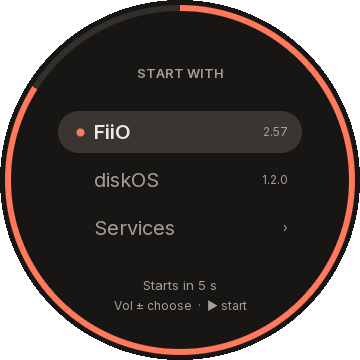
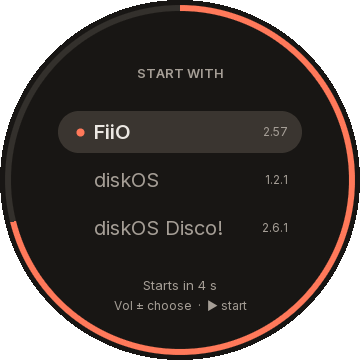
Name release 2.57.13's packages in the catalog
The catalog offers disc-menu, disc-health and disc-network 2.57.13 (the
programs of 2.57.12, build 8eb15a9) beside diskOS 1.2.1 and diskOS Disco!
2.6.1, both seen on the guest only. Changelog entry 2.57.13 says so, and that
the release is a pre-release until both have run on a player; the developer
document keeps that rule. The installation guide says which UIs are offered
unticked and why, and asks to leave the player running for about three
minutes after a start with new packages, until they count as confirmed. The
documents' menu pictures are drawn with both UIs beside FiiO's (the fixture
scenes' key sequences take the extra row); the plan's item names the
pre-release and the "Player didn't respond" splash of diskOS 1.2.1 seen on the
guest.

Claude-Session: https://claude.ai/code/session_01MfNBkZFpsGQADFR8gYQ8nm

diff --git a/scripts/menu_screens.py b/scripts/menu_screens.py
@@ -90,8 +90,8 @@ def main():
     p.add_argument('--output', type=Path, default=ROOT/'docs/assets/menu')
     args = p.parse_args()
     args.output.mkdir(parents=True, exist_ok=True)
-    # One interface beside FiiO's own (diskOS, a project of its own), FiiO's chosen last time.
-    installed = ('stock', [('diskos', 'diskOS', '1.2.0')])
+    # Two interfaces beside FiiO's own (diskOS and its fork Disco!, projects of their own), FiiO's chosen last time.
+    installed = ('stock', [('diskos', 'diskOS', '1.2.1'), ('diskos-disco', 'diskOS Disco!', '2.6.1')])
     scene('choose', args.output, installed, wait=1.5, countdown=5000)
     scene('reading-the-card', args.output, installed, install=dict(state='waiting', done=0, total=0, current=None))
     scene('installing', args.output, installed, install=dict(state='installing', done=1, total=3, current='disc-menu'))
@@ -100,7 +100,8 @@ def main():
     # The menu's other screens (plan, stage 7): the services, the packages, a removal's question.
     offer = dict(services=[dict(name='disc-health', title='disc-health', version='2.57.7', autostart=True, removing=False),
                            dict(name='disc-network', title='disc-network', version='2.57.7', autostart=False, removing=False)],
-                 packages=[dict(role='ui', name='diskos', title='diskOS', version='1.2.0', removing=False),
+                 packages=[dict(role='ui', name='diskos', title='diskOS', version='1.2.1', removing=False),
+                           dict(role='ui', name='diskos-disco', title='diskOS Disco!', version='2.6.1', removing=False),
                            dict(role='service', name='disc-health', title='disc-health', version='2.57.7', removing=False),
                            dict(role='service', name='disc-network', title='disc-network', version='2.57.7', removing=False)],
                  staged=[])
@@ -109,17 +110,18 @@ def main():
     waiting = dict(offer, staged=[dict(folder='service/disc-network', role='service', name='disc-network', title='disc-network',
                                        version='2.57.8', refused=None)])
     scene('waiting', args.output, installed, offer=waiting, wait=1.0, countdown=5000)
-    scene('services', args.output, installed, offer=offer, keys=(VOLUME_DOWN, VOLUME_DOWN, PLAY, VOLUME_DOWN))
-    scene('packages', args.output, installed, offer=waiting, keys=(VOLUME_DOWN, VOLUME_DOWN, PLAY, VOLUME_DOWN))
-    scene('remove', args.output, installed, offer=offer, keys=(VOLUME_DOWN, VOLUME_DOWN, VOLUME_DOWN, PLAY, VOLUME_DOWN, PLAY))
+    # Rows: FiiO (chosen last time), diskOS, Disco!, Services, Packages.
+    scene('services', args.output, installed, offer=offer, keys=(VOLUME_DOWN, VOLUME_DOWN, VOLUME_DOWN, PLAY, VOLUME_DOWN))
+    scene('packages', args.output, installed, offer=waiting, keys=(VOLUME_DOWN, VOLUME_DOWN, VOLUME_DOWN, PLAY, VOLUME_DOWN))
+    scene('remove', args.output, installed, offer=offer, keys=(VOLUME_DOWN, VOLUME_DOWN, VOLUME_DOWN, VOLUME_DOWN, PLAY, VOLUME_DOWN, PLAY))
     scene('everything-goes', args.output, installed, offer=offer,
-          keys=(VOLUME_DOWN, VOLUME_DOWN, VOLUME_DOWN, PLAY) + (VOLUME_DOWN,) * 4 + (PLAY, PLAY, PLAY))
+          keys=(VOLUME_DOWN, VOLUME_DOWN, VOLUME_DOWN, VOLUME_DOWN, PLAY) + (VOLUME_DOWN,) * 5 + (PLAY, PLAY, PLAY))
     # disc-network's networks under Services (owner, 2026-10-11), and the question that forgets one.
     report = dict(wifi='connected', connected='Home', lastChange=None, networks=[
         dict(id='3f1c2a9b', name='Home', open=False, held=True, inRange=True),
         dict(id='9a40c3d7', name='Office', open=False, held=False, inRange=True),
         dict(id='51e7b20c', name='Cafe Lumiere', open=True, held=False, inRange=False)])
-    to_networks = (VOLUME_DOWN, VOLUME_DOWN, PLAY, VOLUME_DOWN, VOLUME_DOWN, VOLUME_DOWN, PLAY)
+    to_networks = (VOLUME_DOWN, VOLUME_DOWN, VOLUME_DOWN, PLAY, VOLUME_DOWN, VOLUME_DOWN, VOLUME_DOWN, PLAY)
     scene('networks', args.output, installed, offer=offer, networks=report, keys=to_networks + (VOLUME_DOWN,))
     scene('forget-network', args.output, installed, offer=offer, networks=report, keys=to_networks + (VOLUME_DOWN, VOLUME_DOWN, PLAY))
     print(json.dumps(sorted(p.name for p in args.output.glob('*.png'))))

diff --git a/docs/install.md b/docs/install.md
@@ -37,7 +37,9 @@ back](way-back.md) returns the player to stock.
 2. The installer asks for the folder of FiiO's update and builds the new
    system (about a minute). It offers the packages: the menu, the server,
    disc-health, disc-network and Disc Player are ticked; they come with the
-   installer.
+   installer. diskOS and diskOS Disco! are offered unticked: both were
+   checked on the emulator only, not on a player (the changelog says what
+   was checked).
 3. **The card.** Put the player's card into the computer, or connect the
    player with its cable and choose **Working mode → USB Storage** on it: the
    card shows as a drive either way. Name where it is mounted and type `CARD`. Then eject it,
@@ -64,7 +66,11 @@ back](way-back.md) returns the player to stock.
    install them the old way: switch the player off, then on holding **Play**
    (let Play go once the logo shows); the menu shows the installation.
    Later, the boot menu offers new packages on the card itself: its row "on
-   the card" opens Packages, where Play installs each one.
+   the card" opens Packages, where Play installs each one. Leave the player
+   running for about three minutes after a start with new packages: a
+   package counts as confirmed once it has run 180 s. Switched off earlier it
+   stays unconfirmed, and after three such starts in a row the player starts
+   FiiO's interface instead, until a start with Play.
 
 All together it takes about 15 minutes with the player. Each run is kept,
 with its report, in `~/Library/Application Support/SNOWSKY DISC/runs`
@@ -86,7 +92,10 @@ the card, put it back into the player (or leave USB storage), then switch
 the player off and on: the menu's row "on the card" opens Packages, where
 Play installs each one. A new version of a service or the server starts at
 once, a new menu at the next start; each keeps its previous version, and one
-that fails gives way to it.
+that fails gives way to it. Here too, leave the player running for about
+three minutes after the start: a package counts as confirmed once it has run
+180 s, and three starts in a row cut short bring FiiO's interface until a
+start with Play.
 
 ## What is installed
 

diff --git a/docs/dev/plan.md b/docs/dev/plan.md
@@ -111,12 +111,16 @@ repository stay in snowsky-disc-web's `docs/plan.md` (its "Boot layer" and
   carry over. Like the DISC, it starts with reading what it is, and would
   enter through reviewed profiles of its own, never version checks in code.
 
-- diskOS 1.2.1 and diskOS Disco! 2.6.1 on the owner's player (catalog entries
-  of 2026-10-22, accepted on the guest beside the server 2.57.10;
-  [packages/diskos.md](packages/diskos.md)): each installed from the card
-  beside the server, its UI confirmed, Bluetooth and Wi-Fi under Disco! (the
-  emulator has neither; the fork's author had not tried 2.6.1 on a player at
-  its release), then a boot release that carries the catalog. Open from
+- diskOS 1.2.1 and diskOS Disco! 2.6.1 on the owner's player (the catalog of
+  release 2.57.13, a pre-release until then; accepted on the guest beside the
+  server 2.57.10, [packages/diskos.md](packages/diskos.md)): each installed
+  from the card beside the server, its UI confirmed, the menu with both and
+  FiiO's interface, Bluetooth and Wi-Fi under Disco! (the emulator has
+  neither; the fork's author had not tried 2.6.1 on a player at its release),
+  then the release promoted and both entries' `verified` updated. On the
+  guest (2026-10-22, frames of its boot) diskOS 1.2.1 shows "Player didn't
+  respond" on its splash for about 2 s before its home screen: to be seen on
+  the player. Open from
   1.2.1's earlier guest runs (2026-10-14): its UI ended about a minute after
   a start with Play that installed from the card in 2 of 4 such starts, then
   ran after stock's loop restarted the pair; in the 2026-10-22 runs (one

diff --git a/CHANGELOG.md b/CHANGELOG.md
@@ -7,6 +7,22 @@ files on the [releases page](https://github.com/eudj1n/snowsky-disc-boot/release
 Entries stay short; why is in the developer documents (`docs/dev/`), how in
 the commits.
 
+## [2.57.13] — 2026-10-22
+
+- The installer's catalog offers diskOS 1.2.1 (1.2.0 before) and, new, diskOS
+  Disco! 2.6.1, zmd22's fork of diskOS. Neither is ticked by default; both can
+  be installed at once, and the boot menu then offers FiiO's interface, diskOS
+  and Disco! at power-on. Both, and the two side by side, were checked on the
+  emulator only (each passed the two-package acceptance beside the server),
+  not on a player; Disco!'s author had not tried 2.6.1 on a DISC at its
+  release, and Bluetooth and Wi-Fi under it are unseen. diskOS and Disco!
+  share their settings; Disco! advises "Reset diskOS Settings" after switching
+  between them. Published as a pre-release until both have run on a player.
+  The boot layer, the menu and the services are the same programs as in
+  2.57.12.
+- The installation guide says to leave the player running for about three
+  minutes after a start with new packages, until they count as confirmed.
+
 ## [2.57.12] — 2026-10-21
 
 - The installer offers DISC server 2.57.10 with Disc Player 1.1.0: headphone

diff --git a/README.md b/README.md
@@ -14,9 +14,9 @@ writes the player's system memory over USB; read [the risk](docs/install.md#the-
 [Changelog](CHANGELOG.md) · [Releases](https://github.com/eudj1n/snowsky-disc-boot/releases)
 
 <p align="center">
-  <img src="docs/assets/menu/choose.png" width="240" alt="The boot menu on the player's round screen: Start with FiiO 2.57 or diskOS 1.2.0, starting in 4 seconds">
+  <img src="docs/assets/menu/choose.png" width="240" alt="The boot menu on the player's round screen: Start with FiiO 2.57, diskOS 1.2.1 or diskOS Disco! 2.6.1, starting in 4 seconds">
   &nbsp;&nbsp;
-  <img src="docs/assets/menu/packages.png" width="240" alt="The boot menu's Packages screen: a newer disc-network waiting on the card to install, diskOS and the services installed">
+  <img src="docs/assets/menu/packages.png" width="240" alt="The boot menu's Packages screen: a newer disc-network waiting on the card to install, diskOS, Disco! and the services installed">
 </p>
 
 _The boot menu, drawn by its own code: choosing the interface at power-on,

diff --git a/docs/dev/development.md b/docs/dev/development.md
@@ -444,6 +444,11 @@ boot layer's 2.57.8 offers the server's 2.57.7). A tag goes on only after the re
 on the player in a system that stayed up (owner, 2026-10-05), on the commit the release was
 recorded from: a later tree may build other bytes, and the release workflow refuses files that
 differ from the record.
+A release whose catalog offers a package that has not run on a player yet is published as a
+pre-release (owner, 2026-10-22: 2.57.13, whose catalog adds diskOS 1.2.1 and diskOS Disco! 2.6.1,
+seen on the guest only) and promoted, the pre-release mark removed, once the owner's player ran
+what it offers; GitHub's "latest release" stays the one before until then, and the changelog's
+entry says so.
 Its files are built from
 `build/mips` by `scripts/release.py`: the boot menu's package `disc-menu-<version>.zip`, the
 services' `disc-health-<version>.zip` (from 2.57.7) and `disc-network-<version>.zip` (from 2.57.8),
